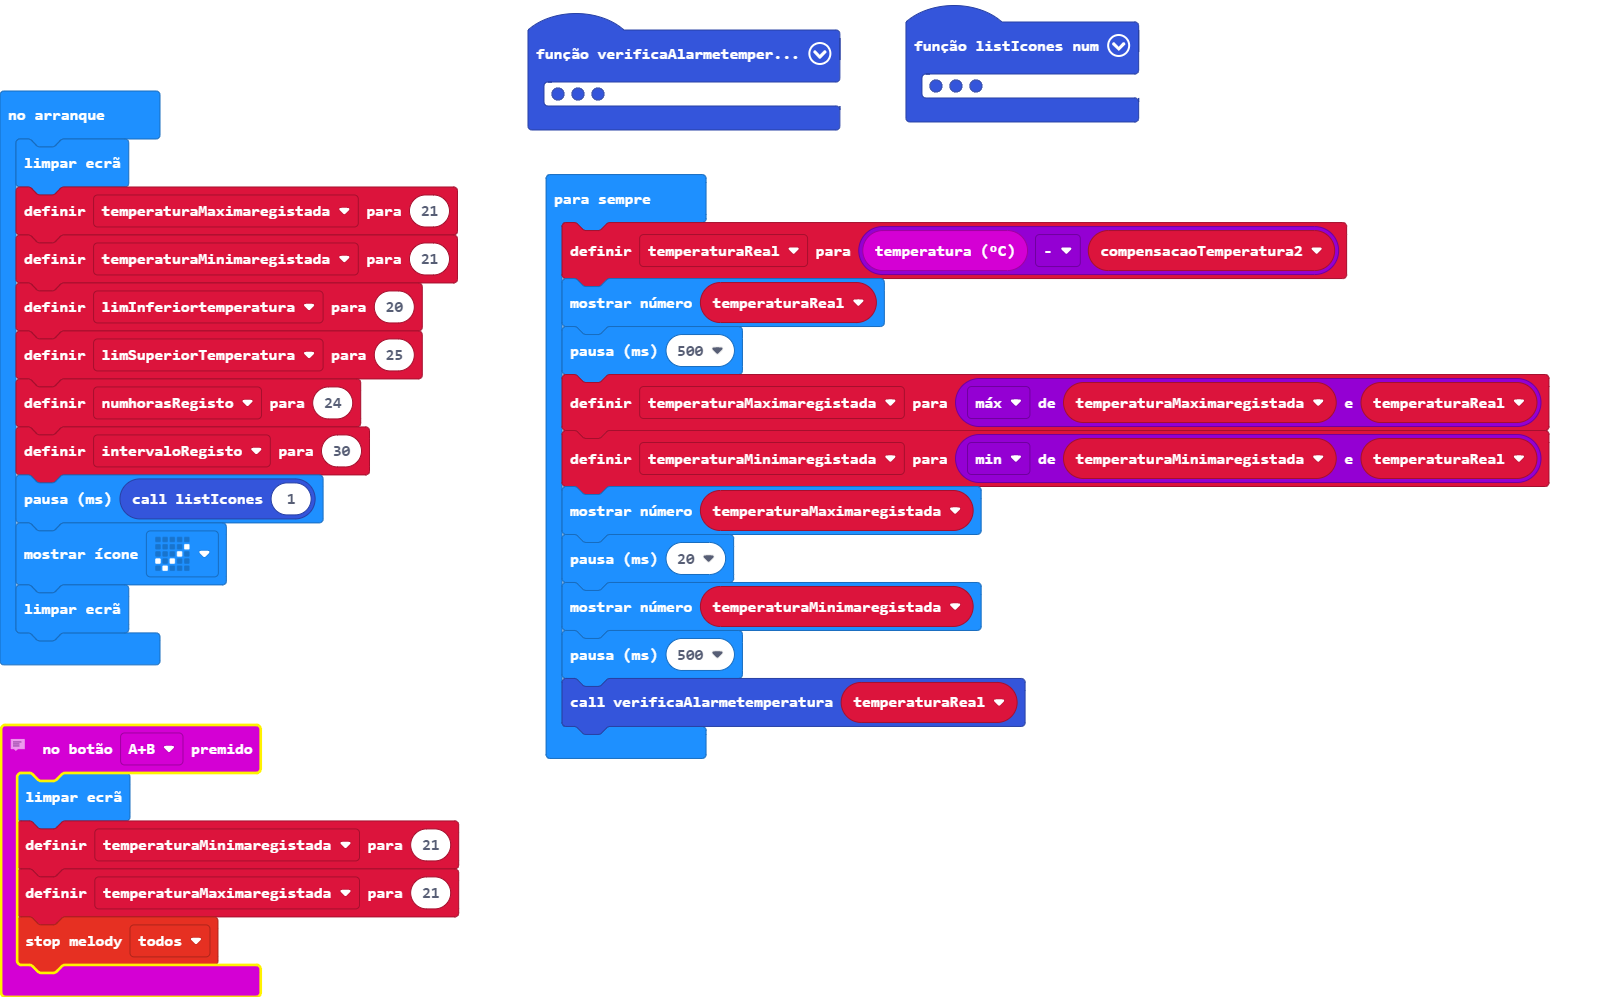
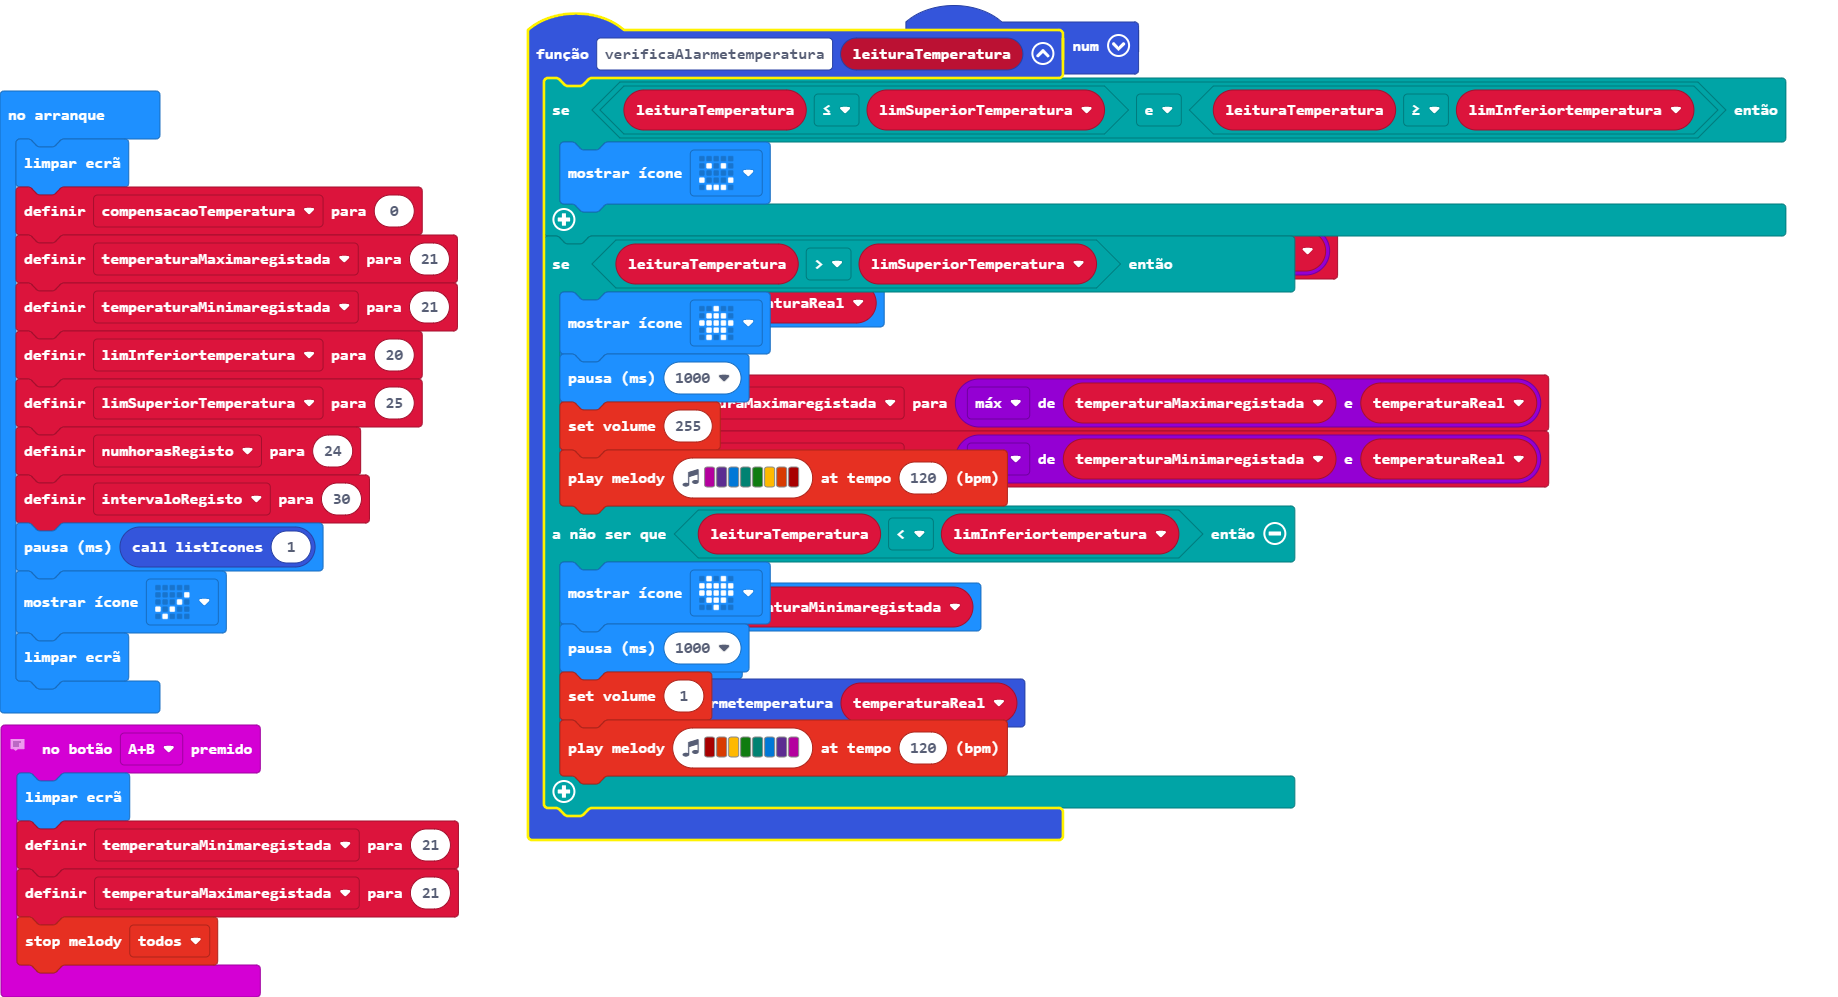
Update main.blocks, main.ts

diff --git a/main.ts b/main.ts
@@ -40,6 +40,7 @@ let limInferiortemperatura = 0
 let temperaturaMinimaregistada = 0
 let temperaturaMaximaregistada = 0
 basic.clearScreen()
+let compensacaoTemperatura = 0
 temperaturaMaximaregistada = 21
 temperaturaMinimaregistada = 21
 limInferiortemperatura = 20
@@ -50,8 +51,7 @@ basic.pause(listIcones(1))
 basic.showIcon(IconNames.Yes)
 basic.clearScreen()
 basic.forever(function () {
-    let compensacaoTemperatura2 = 0
-    temperaturaReal = input.temperature() - compensacaoTemperatura2
+    temperaturaReal = input.temperature() - compensacaoTemperatura
     basic.showNumber(temperaturaReal)
     basic.pause(500)
     temperaturaMaximaregistada = Math.max(temperaturaMaximaregistada, temperaturaReal)
